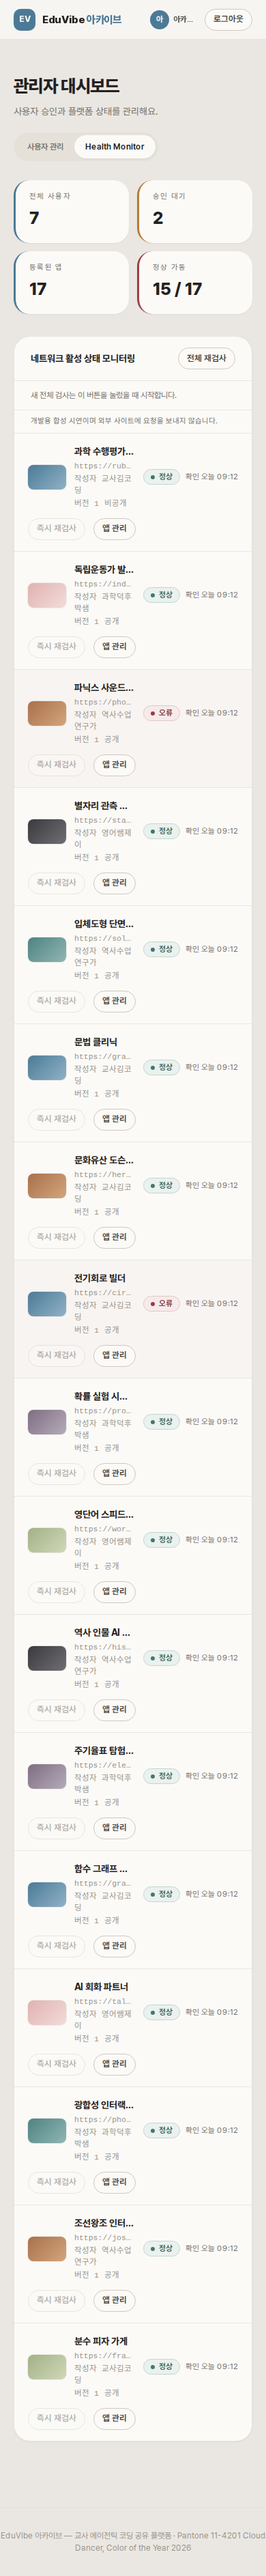
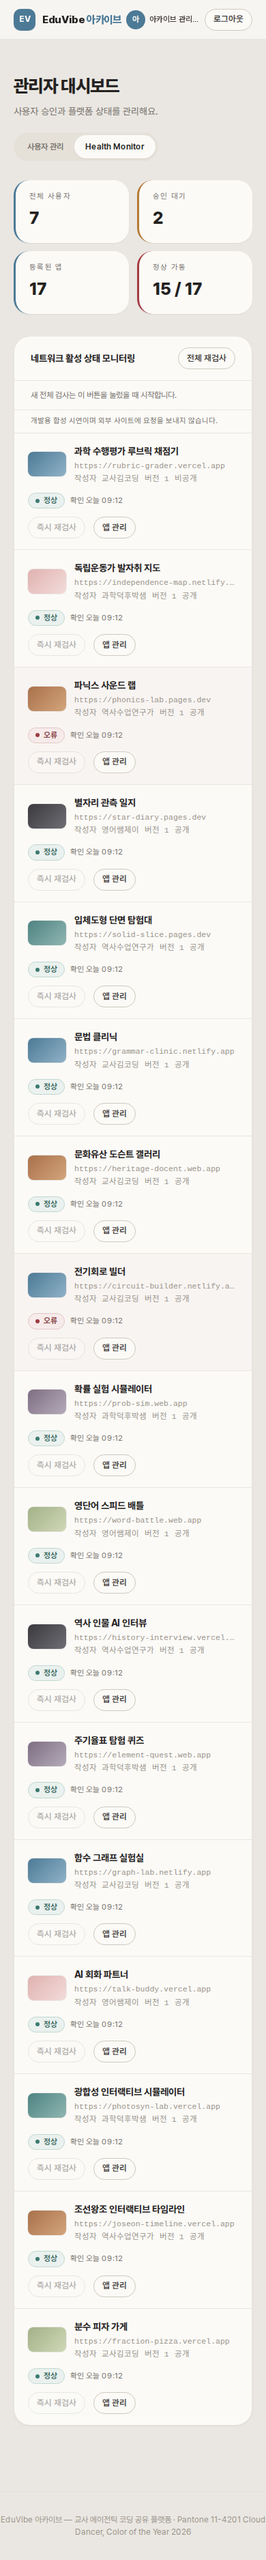
Refine narrow layout for #70 review findings

diff --git a/frontend/e2e/admin-apps.spec.js b/frontend/e2e/admin-apps.spec.js
@@ -69,34 +69,37 @@ const narrowViewports = [
   { width: 390, height: 844 },
 ];
 
+async function textLineCount(locator) {
+  return locator.evaluate((element) => {
+    const range = document.createRange();
+    range.selectNodeContents(element);
+    return new Set(
+      Array.from(range.getClientRects(), (rect) => Math.round(rect.top)),
+    ).size;
+  });
+}
+
 async function expectHeaderTextOnOneLine(page) {
   const logo = page
     .getByRole("link", { name: "EduVibe 아카이브 홈" })
     .locator("span")
     .filter({ hasText: "EduVibe" });
   const logout = page.getByRole("button", { name: "로그아웃", exact: true });
+  const nickname = page
+    .getByRole("banner")
+    .getByText("아카이브 관리자", { exact: true });
   await expect(logo).toBeVisible();
   await expect(logout).toBeVisible();
-
-  const logoLineCount = await logo.evaluate((element) => {
-    const range = document.createRange();
-    range.selectNodeContents(element);
-    return new Set(
-      Array.from(range.getClientRects(), (rect) => Math.round(rect.top)),
-    ).size;
-  });
-  const logoutLineCount = await logout.evaluate((element) => {
-    const range = document.createRange();
-    range.selectNodeContents(element);
-    return new Set(
-      Array.from(range.getClientRects(), (rect) => Math.round(rect.top)),
-    ).size;
-  });
+  await expect(nickname).toBeVisible();
+  const nicknameSlotWidth = await nickname.evaluate(
+    (element) => element.parentElement.clientWidth,
+  );
   const documentWidth = await page.evaluate(
     () => document.documentElement.scrollWidth,
   );
-  expect(logoLineCount).toBe(1);
-  expect(logoutLineCount).toBe(1);
+  expect(await textLineCount(logo)).toBe(1);
+  expect(await textLineCount(logout)).toBe(1);
+  expect(nicknameSlotWidth).toBeGreaterThan(72);
   expect(documentWidth).toBe(await page.evaluate(() => window.innerWidth));
 }
 
@@ -200,39 +203,58 @@ test("Health Monitor metadata stays clear of status badges at narrow widths", as
   for (const viewport of narrowViewports) {
     await page.setViewportSize(viewport);
     const panel = await openHealthMonitor(page);
-    const row = appRow(panel, "과학 수행평가 루브릭 채점기");
-    const metadata = row
-      .locator("span")
-      .filter({ hasText: /^(작성자|버전|공개|비공개)/ });
-    const badge = row.locator('[aria-label^="연결 결과:"]');
-    await expect(metadata).toHaveCount(3);
-    await expect(badge).toBeVisible();
+    const rows = panel
+      .getByRole("list", { name: "전체 앱 목록" })
+      .getByRole("listitem");
+    const rowCount = await rows.count();
+    expect(rowCount).toBeGreaterThan(0);
 
-    const metadataRects = await metadata.evaluateAll((elements) =>
-      elements.flatMap((element) => {
-        const range = document.createRange();
-        range.selectNodeContents(element);
-        return Array.from(range.getClientRects(), (rect) => ({
-          left: rect.left,
-          right: rect.right,
-          top: rect.top,
-          bottom: rect.bottom,
-        }));
-      }),
-    );
-    const badgeBox = await badge.boundingBox();
-    expect(badgeBox).not.toBeNull();
+    for (let index = 0; index < rowCount; index += 1) {
+      const row = rows.nth(index);
+      const metadata = row
+        .locator("span")
+        .filter({ hasText: /^(작성자|버전|공개|비공개)/ });
+      const badge = row.locator('[aria-label^="연결 결과:"]');
+      await expect(metadata).toHaveCount(3);
+      await expect(badge).toBeVisible();
 
-    for (const rect of metadataRects) {
-      const separatedByTwoPixels =
-        badgeBox.x - rect.right >= 2 ||
-        rect.left - (badgeBox.x + badgeBox.width) >= 2 ||
-        badgeBox.y - rect.bottom >= 2 ||
-        rect.top - (badgeBox.y + badgeBox.height) >= 2;
-      expect(
-        separatedByTwoPixels,
-        `${viewport.width}px metadata must have a visible gap from its status badge`,
-      ).toBe(true);
+      const metadataItems = await metadata.evaluateAll((elements) =>
+        elements.map((element) => {
+          const range = document.createRange();
+          range.selectNodeContents(element);
+          const rects = Array.from(range.getClientRects(), (rect) => ({
+            left: rect.left,
+            right: rect.right,
+            top: rect.top,
+            bottom: rect.bottom,
+          }));
+          return {
+            text: element.textContent.trim(),
+            lineCount: new Set(rects.map((rect) => Math.round(rect.top))).size,
+            rects,
+          };
+        }),
+      );
+      const badgeBox = await badge.boundingBox();
+      expect(badgeBox).not.toBeNull();
+
+      for (const item of metadataItems) {
+        expect(
+          item.lineCount,
+          `${viewport.width}px ${item.text} must stay on one line`,
+        ).toBe(1);
+        for (const rect of item.rects) {
+          const separatedByTwoPixels =
+            badgeBox.x - rect.right >= 2 ||
+            rect.left - (badgeBox.x + badgeBox.width) >= 2 ||
+            badgeBox.y - rect.bottom >= 2 ||
+            rect.top - (badgeBox.y + badgeBox.height) >= 2;
+          expect(
+            separatedByTwoPixels,
+            `${viewport.width}px ${item.text} must have a visible gap from its status badge`,
+          ).toBe(true);
+        }
+      }
     }
   }
 });

diff --git a/frontend/src/features/admin/view-admin.jsx b/frontend/src/features/admin/view-admin.jsx
@@ -2384,12 +2384,18 @@ export function AdminView({ scopeKey }) {
                             <span className="min-w-0 truncate" title={app.url}>
                               {app.url}
                             </span>
-                            <span>작성자 {app.owner}</span>
-                            <span>버전 {app.version}</span>
-                            <span>{app.isPublic ? "공개" : "비공개"}</span>
+                            <span className="whitespace-nowrap">
+                              작성자 {app.owner}
+                            </span>
+                            <span className="whitespace-nowrap">
+                              버전 {app.version}
+                            </span>
+                            <span className="whitespace-nowrap">
+                              {app.isPublic ? "공개" : "비공개"}
+                            </span>
                           </div>
                         </div>
-                        <div className="flex items-center gap-2 text-[11.5px] text-neutral-500">
+                        <div className="flex w-full items-center gap-2 text-[11.5px] text-neutral-500 sm:w-auto">
                           <StatusBadge state={app.health.state} />
                           {stale ? (
                             <span className="font-semibold text-amber-800">

diff --git a/frontend/src/app/app.jsx b/frontend/src/app/app.jsx
@@ -152,7 +152,7 @@ function Header({
             </Link>
           ) : null}
         </nav>
-        <div className="ml-auto flex items-center gap-2">
+        <div className="ml-auto flex min-w-0 items-center gap-2">
           {auth.concealed || auth.status === "checking" ? (
             <span className="text-[12px] text-neutral-500" role="status">
               {auth.concealed
@@ -169,9 +169,9 @@ function Header({
             </Btn>
           ) : auth.user ? (
             <>
-              <span className="inline-flex max-w-[72px] items-center gap-1.5 truncate text-[11.5px] font-semibold text-neutral-700 sm:max-w-[145px] sm:gap-2 sm:text-[13px]">
+              <span className="inline-flex min-w-0 flex-1 items-center gap-1.5 truncate text-[11.5px] font-semibold text-neutral-700 sm:max-w-[145px] sm:gap-2 sm:text-[13px]">
                 <Avatar name={auth.user.nickname} size={28} />
-                <span className="truncate">{auth.user.nickname}</span>
+                <span className="min-w-0 truncate">{auth.user.nickname}</span>
               </span>
               <Btn
                 size="sm"

diff --git a/docs/evidence/phase-1/issue70/2026-09-27/README.md b/docs/evidence/phase-1/issue70/2026-09-27/README.md
@@ -1,20 +1,19 @@
 # Issue #70 implementation evidence — 2026-09-27
 
-Scope: narrow Health Monitor row spacing and shared authenticated header wrapping. The change is limited to layout classes; row data, title/URL truncation, behavior, and accessible names are unchanged.
+Scope: keep Health Monitor metadata items intact and clear of status badges, and keep authenticated header labels on one line at narrow widths. The nickname uses the available header width and truncates only when that space runs out. Row data, title/URL truncation, behavior, and accessible names are unchanged.
 
 ## Red/green checks
 
-The browser regression checks inspect rendered text fragments. At 360×844 and 390×844 they require at least a 2px gap between every author/version/visibility text fragment and its status badge, one line for the logo and logout label, and no horizontal document overflow. Header assertions run on Health Monitor, member management, and app detail.
+The browser checks iterate every Health Monitor row at 360×844 and 390×844. They require each author/version/visibility item to render on one line, at least a 2px gap between each metadata text fragment and the row's status badge, and no horizontal document overflow. Header assertions run on Health Monitor, member management, and app detail; they require one-line logo/logout labels and a nickname slot wider than the former 72px cap.
 
-Before the fix, the 360px checks failed: metadata touched the status badge, the logo and logout label wrapped, and the captured header showed both labels split across lines. The first visual run after making those labels non-wrapping exposed 360px horizontal overflow (370px on admin and 363px on the temporary-password screen). The existing user-name slot now truncates to 72px below the `sm` breakpoint; the two affected visual cases then passed.
+The first #70 implementation made the header labels non-wrapping and removed metadata `shrink-0`, but independent review found two remaining narrow-screen issues: Korean author text broke mid-name and the nickname was limited by a hard 72px cap. The expanded checks reproduced both failures at 360px. The final change keeps each metadata item non-wrapping, moves the status summary to its own row below `sm`, and lets the nickname slot flex into the available header width.
 
-| Command                                                                                                                                                                                                                                                               | Result                                                                                                                                                                                                  |
-| --------------------------------------------------------------------------------------------------------------------------------------------------------------------------------------------------------------------------------------------------------------------- | ------------------------------------------------------------------------------------------------------------------------------------------------------------------------------------------------------- |
-| `CI=true npm run test:e2e -- --config=playwright.issue70.config.js --grep 'Health Monitor metadata\|authenticated header text'` before the fix                                                                                                                        | Expected RED at 360px: metadata/badge gap and one-line header assertions failed. A temporary Playwright config used port 5174 while another worktree owned 5173; it was removed after the targeted run. |
-| `CI=true npm run test:e2e -- e2e/admin-apps.spec.js --grep 'Health Monitor metadata\|authenticated header text'` after the fix                                                                                                                                        | PASS: 2 tests, both widths; header remains within the viewport on all three authenticated screens.                                                                                                      |
-| `FONTCONFIG_FILE="$PWD/visual/fontconfig.conf" PLAYWRIGHT_CHROMIUM_EXECUTABLE=/tmp/chrome-151/chrome-headless-shell-linux64/chrome-headless-shell CI=true npm run test:visual -- --grep 'admin approval screen at 360x844\|auth and private-read screens at 360x844'` | PASS: both previously overflowing 360px visual cases.                                                                                                                                                   |
+| Command                                                                                                                                                                                                  | Result                                                                                                                                                                                                       |
+| -------------------------------------------------------------------------------------------------------------------------------------------------------------------------------------------------------- | ------------------------------------------------------------------------------------------------------------------------------------------------------------------------------------------------------------ |
+| `CI=true npm run test:e2e -- --config=playwright.issue70.config.js e2e/admin-apps.spec.js --grep 'Health Monitor metadata\|authenticated header text'` before follow-up fix (temporary port 5174 config) | Expected RED: 360px `작성자 교사김코딩` rendered on two lines; the nickname slot remained capped at 72px. The temporary config avoided another worktree's server on port 5173 and was removed after the run. |
+| `CI=true npm run test:e2e -- e2e/admin-apps.spec.js --grep 'Health Monitor metadata\|authenticated header text'` after follow-up fix                                                                     | PASS: 2 tests at 360px and 390px; all loaded rows keep metadata items on one line and clear of status badges, and header checks pass on all three authenticated screens.                                     |
 
-## Final verification
+## Initial issue #70 commit verification (before review follow-up)
 
 Commands ran from `frontend/` unless noted.
 
@@ -31,6 +30,15 @@ Commands ran from `frontend/` unless noted.
 | `FONTCONFIG_FILE="$PWD/visual/fontconfig.conf" PLAYWRIGHT_CHROMIUM_EXECUTABLE=/tmp/chrome-151/chrome-headless-shell-linux64/chrome-headless-shell CI=true npm run test:visual` | PASS: 122 tests, one worker, Chromium 151.0.7922.34.                                                                                         |
 | `git diff --check`                                                                                                                                                             | PASS.                                                                                                                                        |
 
+## Review follow-up verification
+
+| Command                                                                                                                                                                        | Result                                                     |
+| ------------------------------------------------------------------------------------------------------------------------------------------------------------------------------ | ---------------------------------------------------------- |
+| `CI=true npm run test:e2e -- e2e/admin-apps.spec.js --grep 'Health Monitor metadata\|authenticated header text'`                                                               | PASS: 2 targeted browser tests at both narrow viewports.   |
+| `npm run check`                                                                                                                                                                | PASS: OpenAPI lint/check, typecheck, ESLint, and Prettier. |
+| `FONTCONFIG_FILE="$PWD/visual/fontconfig.conf" PLAYWRIGHT_CHROMIUM_EXECUTABLE=/tmp/chrome-151/chrome-headless-shell-linux64/chrome-headless-shell CI=true npm run test:visual` | PASS: 122 tests, one worker, Chromium 151.0.7922.34.       |
+| `git diff --check`                                                                                                                                                             | PASS.                                                      |
+
 ## Five-viewport evidence
 
 The screenshots include Health Monitor and member management to show the shared authenticated header at every required viewport. Height values are product/reference pixels from the preserved `21-admin-health.png` and `18-admin-users.png` captures.
@@ -40,8 +48,8 @@ The screenshots include Health Monitor and member management to show the shared 
 | 1440×1000 |                                1378 / 1111 |                             1893 / 1966 |
 | 1024×900  |                                1378 / 1111 |                             1893 / 1966 |
 | 768×1024  |                                1378 / 1218 |                             2220 / 2112 |
-| 390×844   |                                1870 / 2456 |                             3773 / 2977 |
-| 360×844   |                                2110 / 1560 |                             4185 / 3069 |
+| 390×844   |                                1870 / 2456 |                             3751 / 2977 |
+| 360×844   |                                2110 / 1560 |                             3768 / 3069 |
 
 All ten full-page comparisons report `dimensions_mismatch`, so they have no pixel counts. Pixel tolerance remains zero; the comparator, masks, references, and product baselines were not changed. The JSON records and captures are in [`visual/`](visual/).
 
@@ -51,4 +59,4 @@ All ten full-page comparisons report `dimensions_mismatch`, so they have no pixe
 
 ## Unverified and pending
 
-Human UI-D/source-difference approval, screen-reader and physical-device review, hosted CI, and local handover acceptance remain pending. Screenshot comparison results do not imply visual approval.
+The preserved 360px and 390px source headers omit the nickname and show an icon-only logout. Earlier #38 evidence says logout remains available but records no mobile presentation choice; #70 keeps the required visible one-line logout label and records that source difference for human UI-D approval. Screen-reader and physical-device review, hosted CI, and local handover acceptance also remain pending. Screenshot comparison results do not imply visual approval.

diff --git a/docs/ui-deviations.md b/docs/ui-deviations.md
@@ -256,4 +256,8 @@ The human UI-D/source-difference review for the narrow Health row remains pendin
 
 ## Issue #70 narrow Health Monitor and authenticated header
 
-At 360px and 390px, Health Monitor author/version/visibility metadata wraps without touching the status badge. The shared authenticated header keeps the logo and logout label on one line. App title and URL truncation are unchanged. Five Health Monitor captures compare to the preserved `21-admin-health.png`; five member-management captures check the shared header. No reference, baseline, or pixel tolerance changed. See the [#70 evidence](evidence/phase-1/issue70/2026-09-27/README.md).
+At 360px and 390px, Health Monitor author/version/visibility items stay on one line and wrap between items; the status summary moves to its own row so it cannot collide with metadata. App title and URL truncation are unchanged. Five Health Monitor captures compare to the preserved `21-admin-health.png`; five member-management captures check the shared header. No reference, baseline, or pixel tolerance changed. See the [#70 evidence](evidence/phase-1/issue70/2026-09-27/README.md).
+
+| Difference                   | Product behavior                                                                                                                     | Reason and evidence                                                                                                                                                                                                                                                                                     |
+| ---------------------------- | ------------------------------------------------------------------------------------------------------------------------------------ | ------------------------------------------------------------------------------------------------------------------------------------------------------------------------------------------------------------------------------------------------------------------------------------------------------- |
+| Narrow authenticated header | Keeps the logo and visible “로그아웃” label on one line; the nickname slot uses remaining width and truncates only if it runs out.    | The preserved 360/390 source headers omit the nickname and use an icon-only logout. Earlier #38 evidence says logout remains available but records no mobile presentation choice. #70 requires a visible one-line label, so this source difference is recorded for human UI-D review. See [#70 evidence](evidence/phase-1/issue70/2026-09-27/README.md). |

diff --git a/docs/acceptance.md b/docs/acceptance.md
@@ -287,6 +287,6 @@ The [#49 acceptance record](evidence/phase-1/issue49/2026-09-27/README.md) maps 
 
 ## Issue #70 narrow Health Monitor row and authenticated header
 
-The shared authenticated header and Health Monitor row receive layout-only changes. Browser checks at 360×844 and 390×844 assert one-line logo/logout labels and visible separation between each author/version/visibility text fragment and its status badge. The same header assertions run on Health Monitor, member management, and app detail. App title and URL truncation are unchanged.
+The shared authenticated header and Health Monitor row receive layout-only changes. Browser checks at 360×844 and 390×844 assert one-line logo/logout labels, a flexible nickname slot, one-line author/version/visibility items for every row, and visible separation between each metadata text fragment and its status badge. The same header assertions run on Health Monitor, member management, and app detail. App title and URL truncation are unchanged. The source references omit the nickname and use icon-only logout at mobile widths; #70 keeps the visible one-line logout label and records that difference for human UI-D review.
 
 Five-view Health Monitor captures and five member-management regression captures, with comparison results, are recorded in the [#70 evidence](evidence/phase-1/issue70/2026-09-27/README.md). The preserved references, product baselines, and zero-pixel tolerance were not changed. Human UI-D, screen-reader, physical-device, hosted-CI, and local-handover review remain pending.
